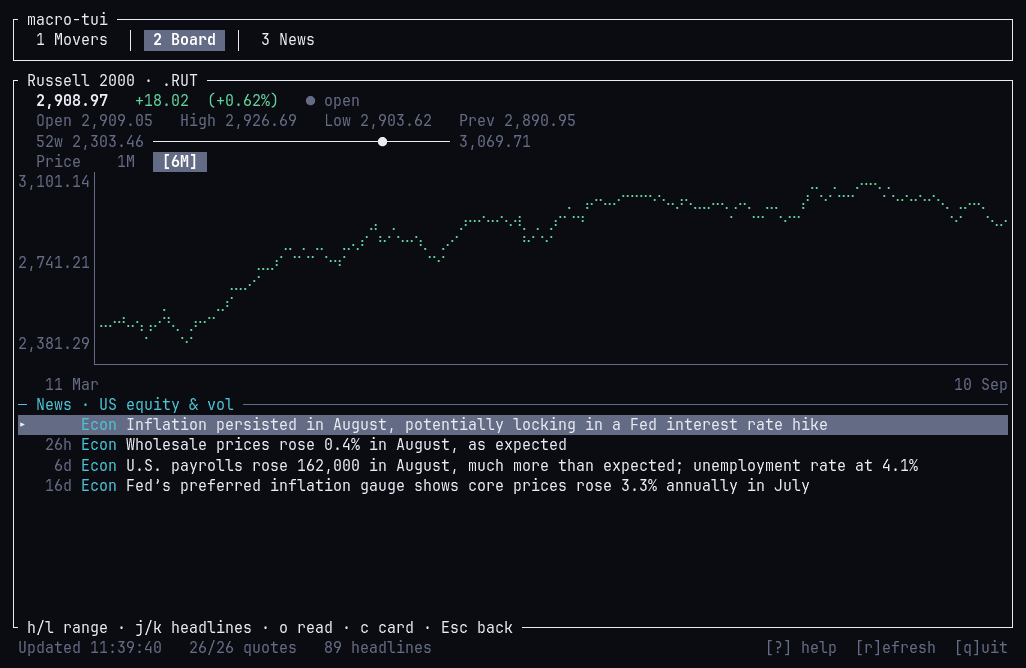
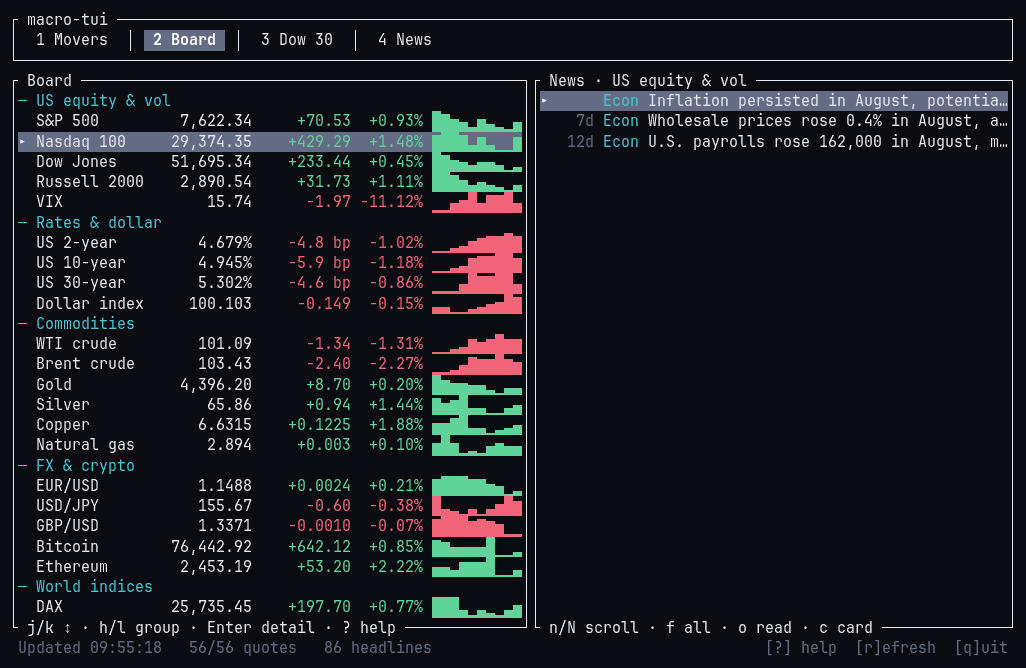
Re-record the macro-tui demo for 0.5.0
The run-through now starts on the Movers story cards, reads one in place,
and visits the Dow 30 tab. The old script sent 3 for the news, which has
been the Dow tab since 0.4.0. record-demos.sh takes an app name to
re-record just one.

Claude-Session: https://claude.ai/code/session_018bqYpThurd7LRJXPSmSoBr

Changed region(s): [[0.0, 0.0898, 0.9981, 0.988], [0.5302, 0.9281, 0.8733, 0.9581], [0.3743, 0.0299, 0.4055, 0.0898]]

diff --git a/docs/macro-tui/index.html b/docs/macro-tui/index.html
@@ -28,8 +28,8 @@
 <p class="note">Drops a single binary in <code>~/.local/bin</code>. Verifies its checksum. Then run <code>macro-tui</code>.</p>
 
 <p class="pline"><span class="prompt">$</span> macro-tui <span style="color:var(--dim)"># recorded, at speed</span></p>
-<div class="term demo"><div class="titlebar"><i class="d"></i><i class="d"></i><i class="d"></i><span>macro-tui &mdash; a run through</span><button class="pp" type="button" hidden>play</button></div><img src="demo-poster.png" data-demo="demo.gif" alt="A recording of macro-tui: the day's movers as cards, the full board of twenty-six instruments, the detail view for the Russell 2000 at one month and six months, then the news rail." width="1026" height="668"></div>
-<p class="cap">Twenty seconds, unedited &mdash; the movers, the board, a chart at both ranges, the headlines.</p>
+<div class="term demo"><div class="titlebar"><i class="d"></i><i class="d"></i><i class="d"></i><span>macro-tui &mdash; a run through</span><button class="pp" type="button" hidden>play</button></div><img src="demo-poster.png" data-demo="demo.gif" alt="A recording of macro-tui: the day's movers as cards under three macro story cards, one story opened in the reader, the full board of twenty-six instruments, the detail view for the Russell 2000 at one month and six months, the Dow 30 cohort, then the news." width="1026" height="668"></div>
+<p class="cap">Forty seconds, unedited &mdash; the movers and the stories behind them, a story read in place, the board, a chart at both ranges, the Dow 30, the headlines.</p>
 
 <p class="pline"><span class="prompt">$</span> macro-tui --show board <span style="color:var(--dim)"># fig. 01</span></p>
 <div class="term"><div class="titlebar"><i class="d"></i><i class="d"></i><i class="d"></i><span>macro-tui — board</span></div><img src="screenshot.png" alt="macro-tui showing US indices, Treasury yields, commodities and FX with live prices, colour-coded moves and trend lines, beside a pane of market headlines." width="2180" height="1581"></div>
